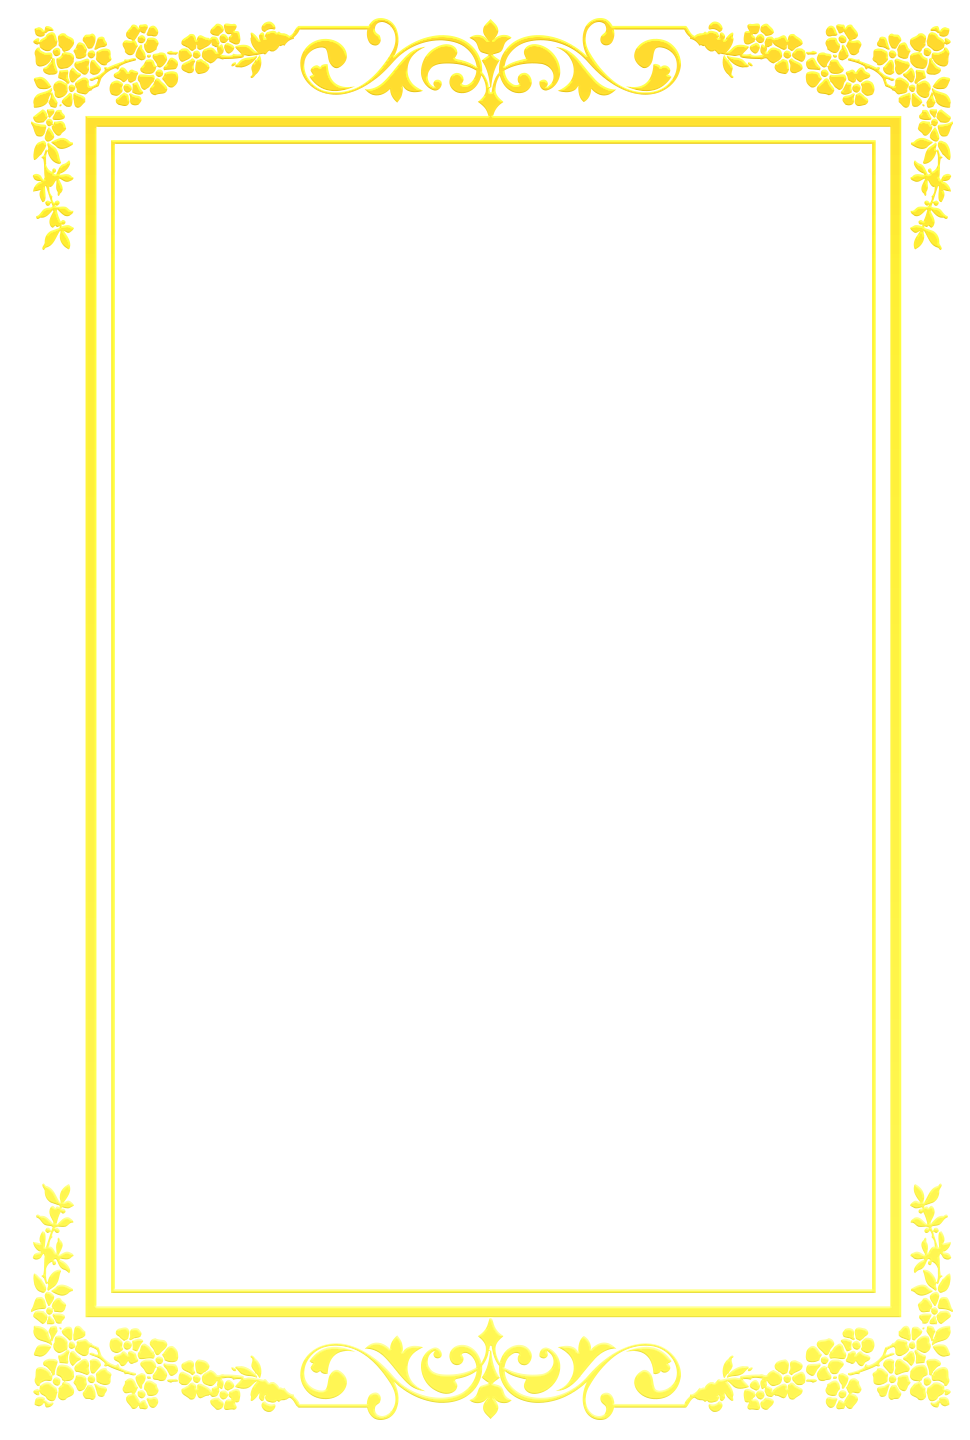
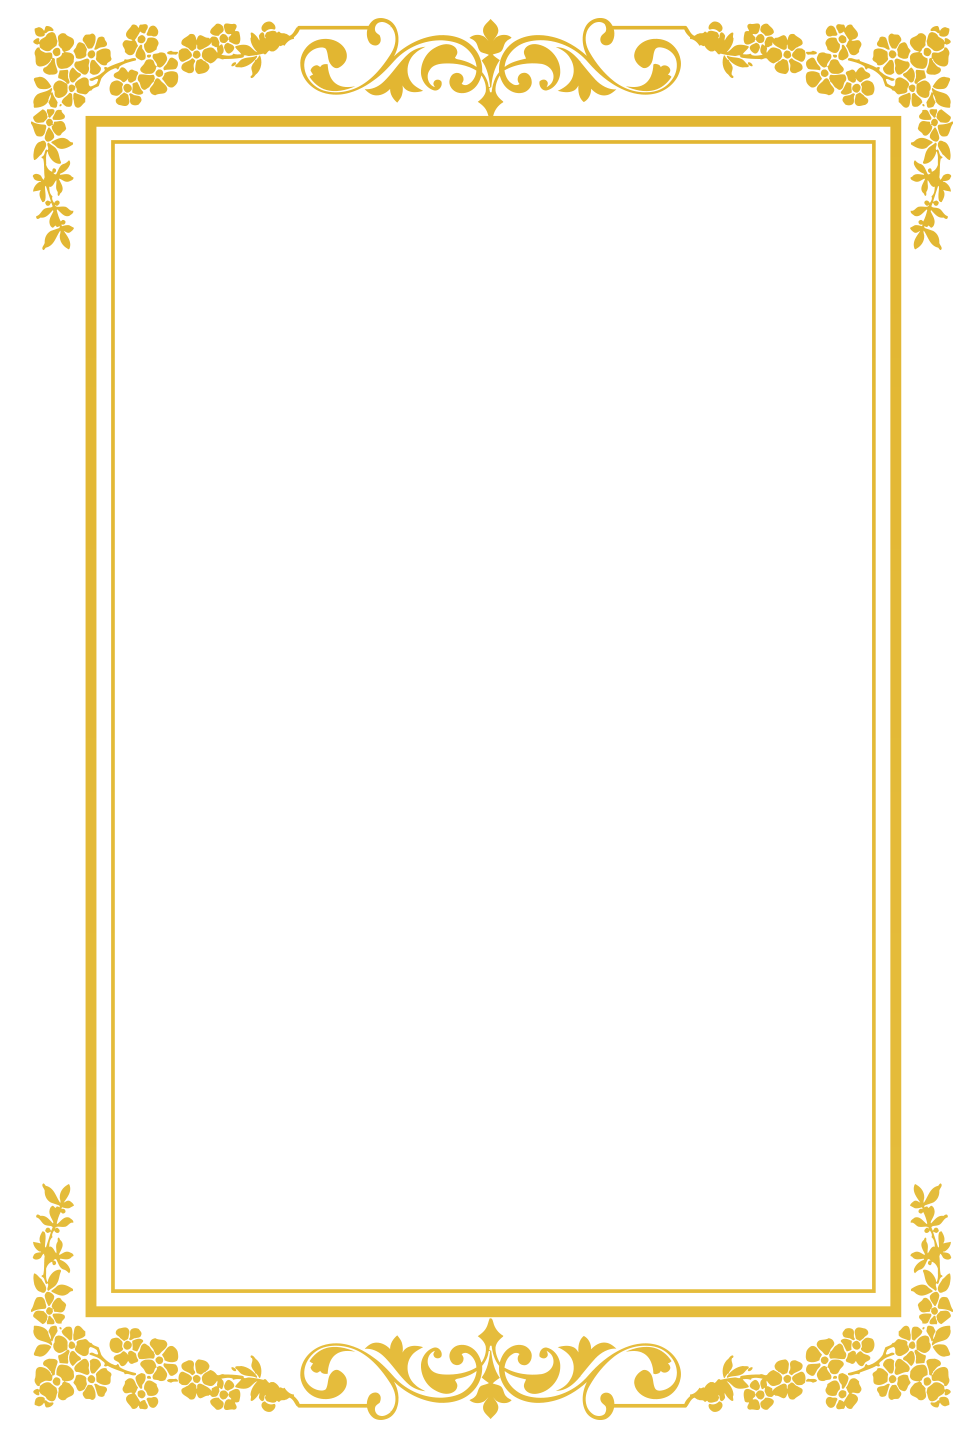
chnage

Changed region(s): [[0.0309, 0.0, 0.9897, 1.0]]

diff --git a/index.html b/index.html
@@ -18,7 +18,7 @@
   <!-- Swiper CSS -->
   <link rel="stylesheet" href="https://cdn.jsdelivr.net/npm/swiper@11/swiper-bundle.min.css">
 
-  <link rel="stylesheet" href="style.css?v=5.8">
+  <link rel="stylesheet" href="style.css?v=5.9">
 </head>
 
 <body class="envelope-active">
@@ -172,15 +172,6 @@
         </svg>
       </button>
 
-      <!-- Swiper Pagination Bullets -->
-      <div class="swiper-pagination hero-swiper-pagination"></div>
-
-      <!-- Slide Indicator Counter -->
-      <div class="hero-slide-counter">
-        <span class="current-slide" id="currentSlideNum">01</span>
-        <span class="counter-sep">/</span>
-        <span class="total-slides">06</span>
-      </div>
     </div>
 
     <!-- Hero Content in a Grand Khmer Royal Glass Card -->

diff --git a/style.css b/style.css
@@ -928,10 +928,10 @@ body.envelope-active .page-fixed-frame {
 
 .graphic-frame-inner-viewport {
   position: absolute;
-  left: 9.9%;
-  top: 3.75%;
-  width: 81.8%;
-  height: 92.4%;
+  left: 8.97%;
+  top: 8.33%;
+  width: 83.71%;
+  height: 83.06%;
   z-index: 2;
   overflow: hidden;
   background-color: #170409;
